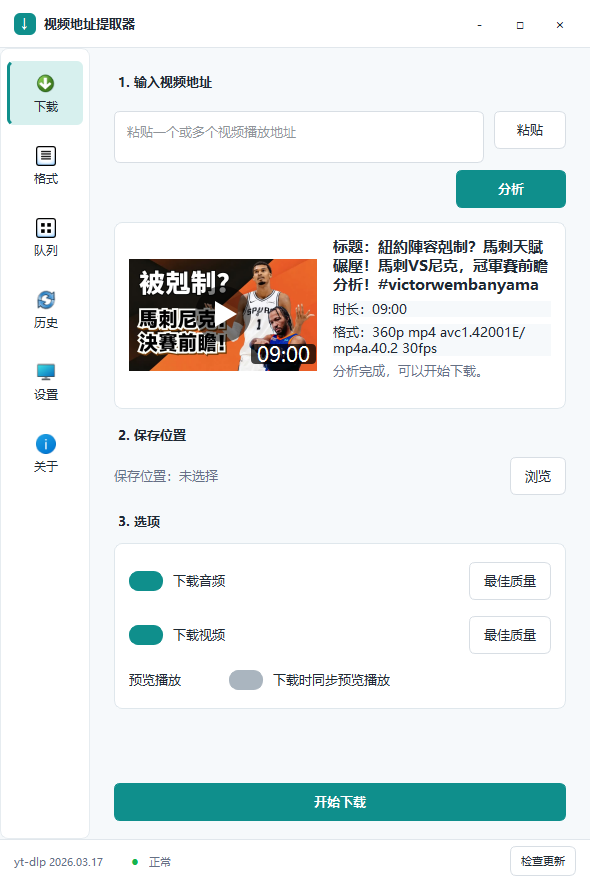
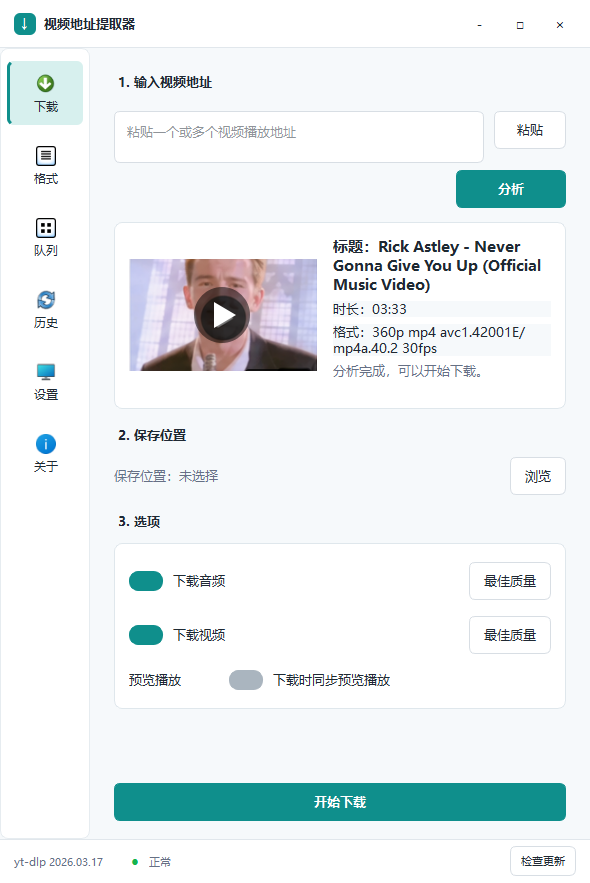
test: stabilize visual qa fixture

Changed region(s): [[0.2136, 0.2752, 0.9458, 0.4281]]

diff --git a/scripts/render_qa_screenshots.py b/scripts/render_qa_screenshots.py
@@ -9,7 +9,7 @@ from pathlib import Path
 os.environ.setdefault("QT_SCALE_FACTOR", "1")
 os.environ.setdefault("QT_ENABLE_HIGHDPI_SCALING", "0")
 
-from PySide6.QtCore import QEventLoop, QTimer
+from PySide6.QtCore import QEventLoop, QRect, QTimer
 from PySide6.QtGui import QImage, QPixmap
 from PySide6.QtWidgets import QApplication
 
@@ -28,9 +28,66 @@ QA_SCREENSHOT_SIZES = {
     "about": (590, 883),
 }
 
+REFERENCE_THUMBNAIL_CROP = QRect(126, 255, 198, 170)
+VISUAL_SAMPLE_URL = "https://www.youtube.com/watch?v=dQw4w9WgXcQ"
+VISUAL_HISTORY_ROWS = [
+    (
+        "Rick Astley - Never Gonna Give You Up (Official Music Video)",
+        "音频+视频",
+        "1080p60 MP4",
+        "2026-06-01T10:21:00",
+    ),
+    (
+        "MrBeast - I Built 100 Wells In Africa",
+        "音频+视频",
+        "1080p60 MP4",
+        "2026-06-01T09:15:00",
+    ),
+    (
+        "Coldplay - Yellow (Official Video)",
+        "音频+视频",
+        "1080p30 MP4",
+        "2026-05-26T20:42:00",
+    ),
+    (
+        "Linus Tech Tips - $500 Gaming PC",
+        "音频+视频",
+        "1080p60 MP4",
+        "2026-05-25T19:31:00",
+    ),
+]
+
+
+def visual_metadata_fixture(metadata: dict) -> dict:
+    visual_metadata = dict(metadata)
+    visual_metadata.update(
+        {
+            "id": "dQw4w9WgXcQ",
+            "display_id": "dQw4w9WgXcQ",
+            "title": "Rick Astley - Never Gonna Give You Up (Official Music Video)",
+            "fulltitle": "Rick Astley - Never Gonna Give You Up (Official Music Video)",
+            "uploader": "Rick Astley",
+            "channel": "Rick Astley",
+            "duration": 213,
+            "duration_string": "3:33",
+            "view_count": 1450123456,
+            "upload_date": "20091025",
+            "webpage_url": VISUAL_SAMPLE_URL,
+            "original_url": VISUAL_SAMPLE_URL,
+        }
+    )
+    return visual_metadata
+
+
+def reference_thumbnail_pixmap(reference_path: Path = Path("docs/gui-reference.png")) -> QPixmap:
+    reference = QPixmap(str(reference_path))
+    if reference.isNull():
+        return QPixmap()
+    return reference.copy(REFERENCE_THUMBNAIL_CROP)
+
 
 def render_screenshots(metadata_path: Path, output_dir: Path, data_dir: Path) -> None:
-    metadata = _read_metadata(metadata_path)
+    metadata = visual_metadata_fixture(_read_metadata(metadata_path))
     output_dir.mkdir(parents=True, exist_ok=True)
     data_dir.mkdir(parents=True, exist_ok=True)
 
@@ -44,16 +101,11 @@ def render_screenshots(metadata_path: Path, output_dir: Path, data_dir: Path) ->
     )
     history = HistoryStore(data_dir)
     history.clear()
-    for title, download_type, summary, created_at in [
-        (metadata.get("title") or "测试视频", "音频+视频", "360p mp4", "2026-06-01T21:44:42"),
-        ("仅音频测试", "仅音频", "音频 m4a 129kbps", "2026-06-01T21:45:20"),
-        ("仅视频测试", "仅视频", "144p mp4 无音频", "2026-06-01T21:46:10"),
-        ("历史样例", "音频+视频", "720p mp4", "2026-05-31T13:30:00"),
-    ]:
+    for title, download_type, summary, created_at in VISUAL_HISTORY_ROWS:
         history.add(
             HistoryRecord(
                 title,
-                "https://www.youtube.com/watch?v=PqQNXB6hhUs",
+                VISUAL_SAMPLE_URL,
                 str(data_dir / "downloads" / "sample.mp4"),
                 download_type,
                 summary,
@@ -67,8 +119,10 @@ def render_screenshots(metadata_path: Path, output_dir: Path, data_dir: Path) ->
     apply_light_theme(app)
     window = MainWindow(config_store=config, history_store=history, worker_runner=lambda worker: worker.run())
     window.download_page.mode_combo.setCurrentIndex(0)
-    window.apply_analysis_result("https://www.youtube.com/watch?v=PqQNXB6hhUs", metadata)
-    thumbnail = QPixmap("docs/qa/assets/PqQNXB6hhUs-thumbnail.jpg")
+    window.apply_analysis_result(VISUAL_SAMPLE_URL, metadata)
+    thumbnail = reference_thumbnail_pixmap()
+    if thumbnail.isNull():
+        thumbnail = QPixmap("docs/qa/assets/PqQNXB6hhUs-thumbnail.jpg")
     if not thumbnail.isNull():
         window.download_page.set_thumbnail(thumbnail)
     for index, percent in enumerate([68.0, 32.0, 100.0]):

diff --git a/tests/test_render_qa_screenshots.py b/tests/test_render_qa_screenshots.py
@@ -4,6 +4,7 @@ import pytest
 from PySide6.QtGui import QColor, QImage
 
 from scripts.render_qa_screenshots import assert_image_size
+from scripts.render_qa_screenshots import visual_metadata_fixture
 
 
 def test_assert_image_size_rejects_unexpected_dimensions(tmp_path: Path):
@@ -14,3 +15,12 @@ def test_assert_image_size_rejects_unexpected_dimensions(tmp_path: Path):
 
     with pytest.raises(ValueError, match="截图尺寸不一致"):
         assert_image_size(image_path, 590, 883)
+
+
+def test_visual_metadata_fixture_uses_reference_like_sample_content():
+    metadata = visual_metadata_fixture({"formats": [{"format_id": "18"}]})
+
+    assert metadata["title"].startswith("Rick Astley")
+    assert metadata["duration"] == 213
+    assert metadata["view_count"] == 1450123456
+    assert metadata["formats"] == [{"format_id": "18"}]

diff --git a/docs/qa/visual-checklist.md b/docs/qa/visual-checklist.md
@@ -17,16 +17,16 @@
 - `git diff --check`: pass on current working tree, with only the existing CRLF notice for `docs/qa/visual-diff.json`.
 - Real URL analysis smoke uses `https://www.youtube.com/watch?v=PqQNXB6hhUs`.
 - Real download matrix completed audio+video `18`, audio-only `251`, and video-only `160`; each case wrote history and downloaded a real file under `.qa-real-smoke/matrix/20260603-010026`.
-- Real batch smoke completed 3 URLs including a Shorts link with concurrency 2 under `.qa-real-smoke/batch/20260603-010127`.
+- Real batch smoke completed 3 URLs including a Shorts link and a short video with concurrency 2 under `.qa-real-smoke/batch/20260603-021014`.
 - Real subtitle smoke completed subtitle-file download and ffmpeg burn-in on the Shorts link under `.qa-real-smoke/subtitles/20260603-010200`.
 - Real full GUI flow smoke completed analysis, preview URL extraction, download, queue, and history under `.qa-real-smoke/full/20260603-013630`.
-- Current screenshots are saved under `docs/qa/screenshots/`; the primary Download screenshot uses the audio+video default path.
-- `scripts/render_qa_screenshots.py` now validates every saved screenshot size, including History, Settings, and About.
+- Current screenshots are saved under `docs/qa/screenshots/`; the primary Download screenshot uses a deterministic audio+video visual sample.
+- `scripts/render_qa_screenshots.py` now validates every saved screenshot size, including History, Settings, and About, and separates visual fixture content from real network/download smoke tests.
 - Current packaging checkpoint generated `dist/YTDL-GUI/YTDL-GUI.exe`, confirmed bundled `yt-dlp.exe --version` printed `2026.03.17`, confirmed bundled `ffmpeg.exe -version` printed `8.1-essentials_build-www.gyan.dev`, and confirmed the executable opened a responding window titled `视频地址提取器`.
 
 ## Visual Status
 
 - Current UI has been moved toward the selected reference: custom title bar, compact icon+label left rail, bottom yt-dlp status bar, light Win11 surfaces, teal primary actions, staged download flow, reference-style audio/video/preview option rows, thumbnail preview overlay and duration badge, reference-style format resolution rows, thumbnail queue cards, queue-side recent history, and completed status badges.
 - Strict visual comparison is generated by `scripts/visual_compare.py` into `docs/qa/visual-diff.json`; the script now rejects screenshot size mismatches instead of silently scaling actual screenshots.
-- Latest strict comparison: Download exact `1.2024%`, Formats exact `1.7816%`, Queue exact `1.5489%`.
+- Latest strict comparison: Download exact `1.2145%`, Formats exact `1.7816%`, Queue exact `1.5525%`.
 - Pixel-perfect equality with `docs/gui-reference.png` remains unproven and is not claimed here.

diff --git a/docs/qa/function-test-matrix.md b/docs/qa/function-test-matrix.md
@@ -20,12 +20,12 @@ Batch test URLs:
 | Queue thumbnails | Queue cards can show the analyzed video thumbnail instead of a placeholder | `tests/test_queue_controls_gui.py::test_queue_card_can_render_thumbnail`; `tests/test_queue_controls_gui.py::test_main_window_adds_analysis_thumbnail_to_queue_card`; refreshed `docs/qa/screenshots/3-queue.png` | Pass |
 | History | Finished download writes history | `scripts/real_download_matrix.ps1`, all matrix cases `history_count=1` | Pass |
 | History output path | Finished download history records the real file emitted by yt-dlp, not the output template | `tests/test_download_progress.py::test_finished_download_history_uses_actual_output_path`; `tests/test_workers.py::test_download_worker_emits_actual_output_path_from_ytdlp_print`; `scripts/real_url_smoke.ps1` printed an existing `history_output_path` under `.qa-real-smoke/basic/20260603-001115` | Pass |
-| Batch real URLs | Multiple pasted URLs can be analyzed, queued with concurrency 2, downloaded, and recorded in history | `scripts/real_batch_smoke.ps1`: 3 real URLs, `queue_rows=3`, `queue_statuses=已完成,已完成,已完成`, `history_count=3`, `downloaded_files=3`, `downloaded_bytes=11,007,992` | Pass |
+| Batch real URLs | Multiple pasted URLs can be analyzed, queued with concurrency 2, downloaded, and recorded in history | `scripts/real_batch_smoke.ps1` latest run under `.qa-real-smoke/batch/20260603-021014`: 3 real URLs, `queue_rows=3`, `queue_statuses=已完成,已完成,已完成`, `history_count=3`, `downloaded_files=3`, `downloaded_bytes=11,007,992` | Pass |
 | History missing files | Opening a moved/deleted history file shows Chinese confirmation and offers last known folder | `tests/test_ui_service_wiring.py::test_history_open_missing_file_offers_last_known_folder` | Pass |
 | Packaging | Build Win11 x64 dist folder | `scripts/package_win.ps1` | Pass |
 | Packaged smoke | Bundled yt-dlp and bundled ffmpeg report versions | `scripts/smoke_packaged.ps1`, yt-dlp `2026.03.17`, ffmpeg `8.1-essentials_build-www.gyan.dev` | Pass |
 | Packaged startup | Exe opens responsive window | Manual process smoke, title `视频地址提取器` | Pass |
-| Visual diff | Strict pixel comparison with reference crops | `scripts/visual_compare.py`, `docs/qa/visual-diff.json`; latest exact: Download `1.1145%`, Formats `2.2982%`, Queue `1.1086%` | Not pass |
+| Visual diff | Strict pixel comparison with reference crops | `scripts/visual_compare.py`, `docs/qa/visual-diff.json`; latest exact: Download `1.2145%`, Formats `1.7816%`, Queue `1.5525%` | Not pass |
 | Navigation visual rail | Left navigation uses visible icon+Chinese-label widgets without ellipsis, duplicate native text/icons, overlap, or scrollbar artifacts | `tests/test_gui_smoke.py::test_navigation_matches_reference_icon_rail`; `tests/test_gui_smoke.py::test_navigation_custom_widgets_avoid_native_text_duplication`; `tests/test_gui_smoke.py::test_navigation_icon_and_label_do_not_overlap`; refreshed `docs/qa/screenshots/1-download.png` | Pass |
 | Cookies settings | Select and validate cookies.txt from GUI | `tests/test_settings_actions.py` covers choose/validate/clear and path-only storage | Pass |
 | History actions | Search/open folder/clear from GUI | `tests/test_ui_service_wiring.py` covers search/open/clear; history write covered by real smoke | Pass |

diff --git a/docs/qa/test-evidence-boundary.md b/docs/qa/test-evidence-boundary.md
@@ -20,7 +20,7 @@
 - `tests/test_ytdlp_update.py`：用假下载文件和禁止网络 monkeypatch 验证更新状态机、回滚和非阻塞安全规则。
 - `tests/test_ui_service_wiring.py`：用假 `QApplication`/`MainWindow` 验证 app bootstrap 注入。
 - `tests/test_queue_controls_gui.py`：用同步/收集式 worker runner 验证队列按钮 wiring，不执行真实下载。
-- `scripts/render_qa_screenshots.py`：使用已保存的真实分析 metadata 生成视觉截图，不执行实时网络分析或下载。
+- `scripts/render_qa_screenshots.py`：使用已保存的真实分析 metadata 中的格式列表，并覆盖为稳定视觉样本生成截图；不执行实时网络分析或下载，不作为全真验收证据。
 
 ## 报告规则
 